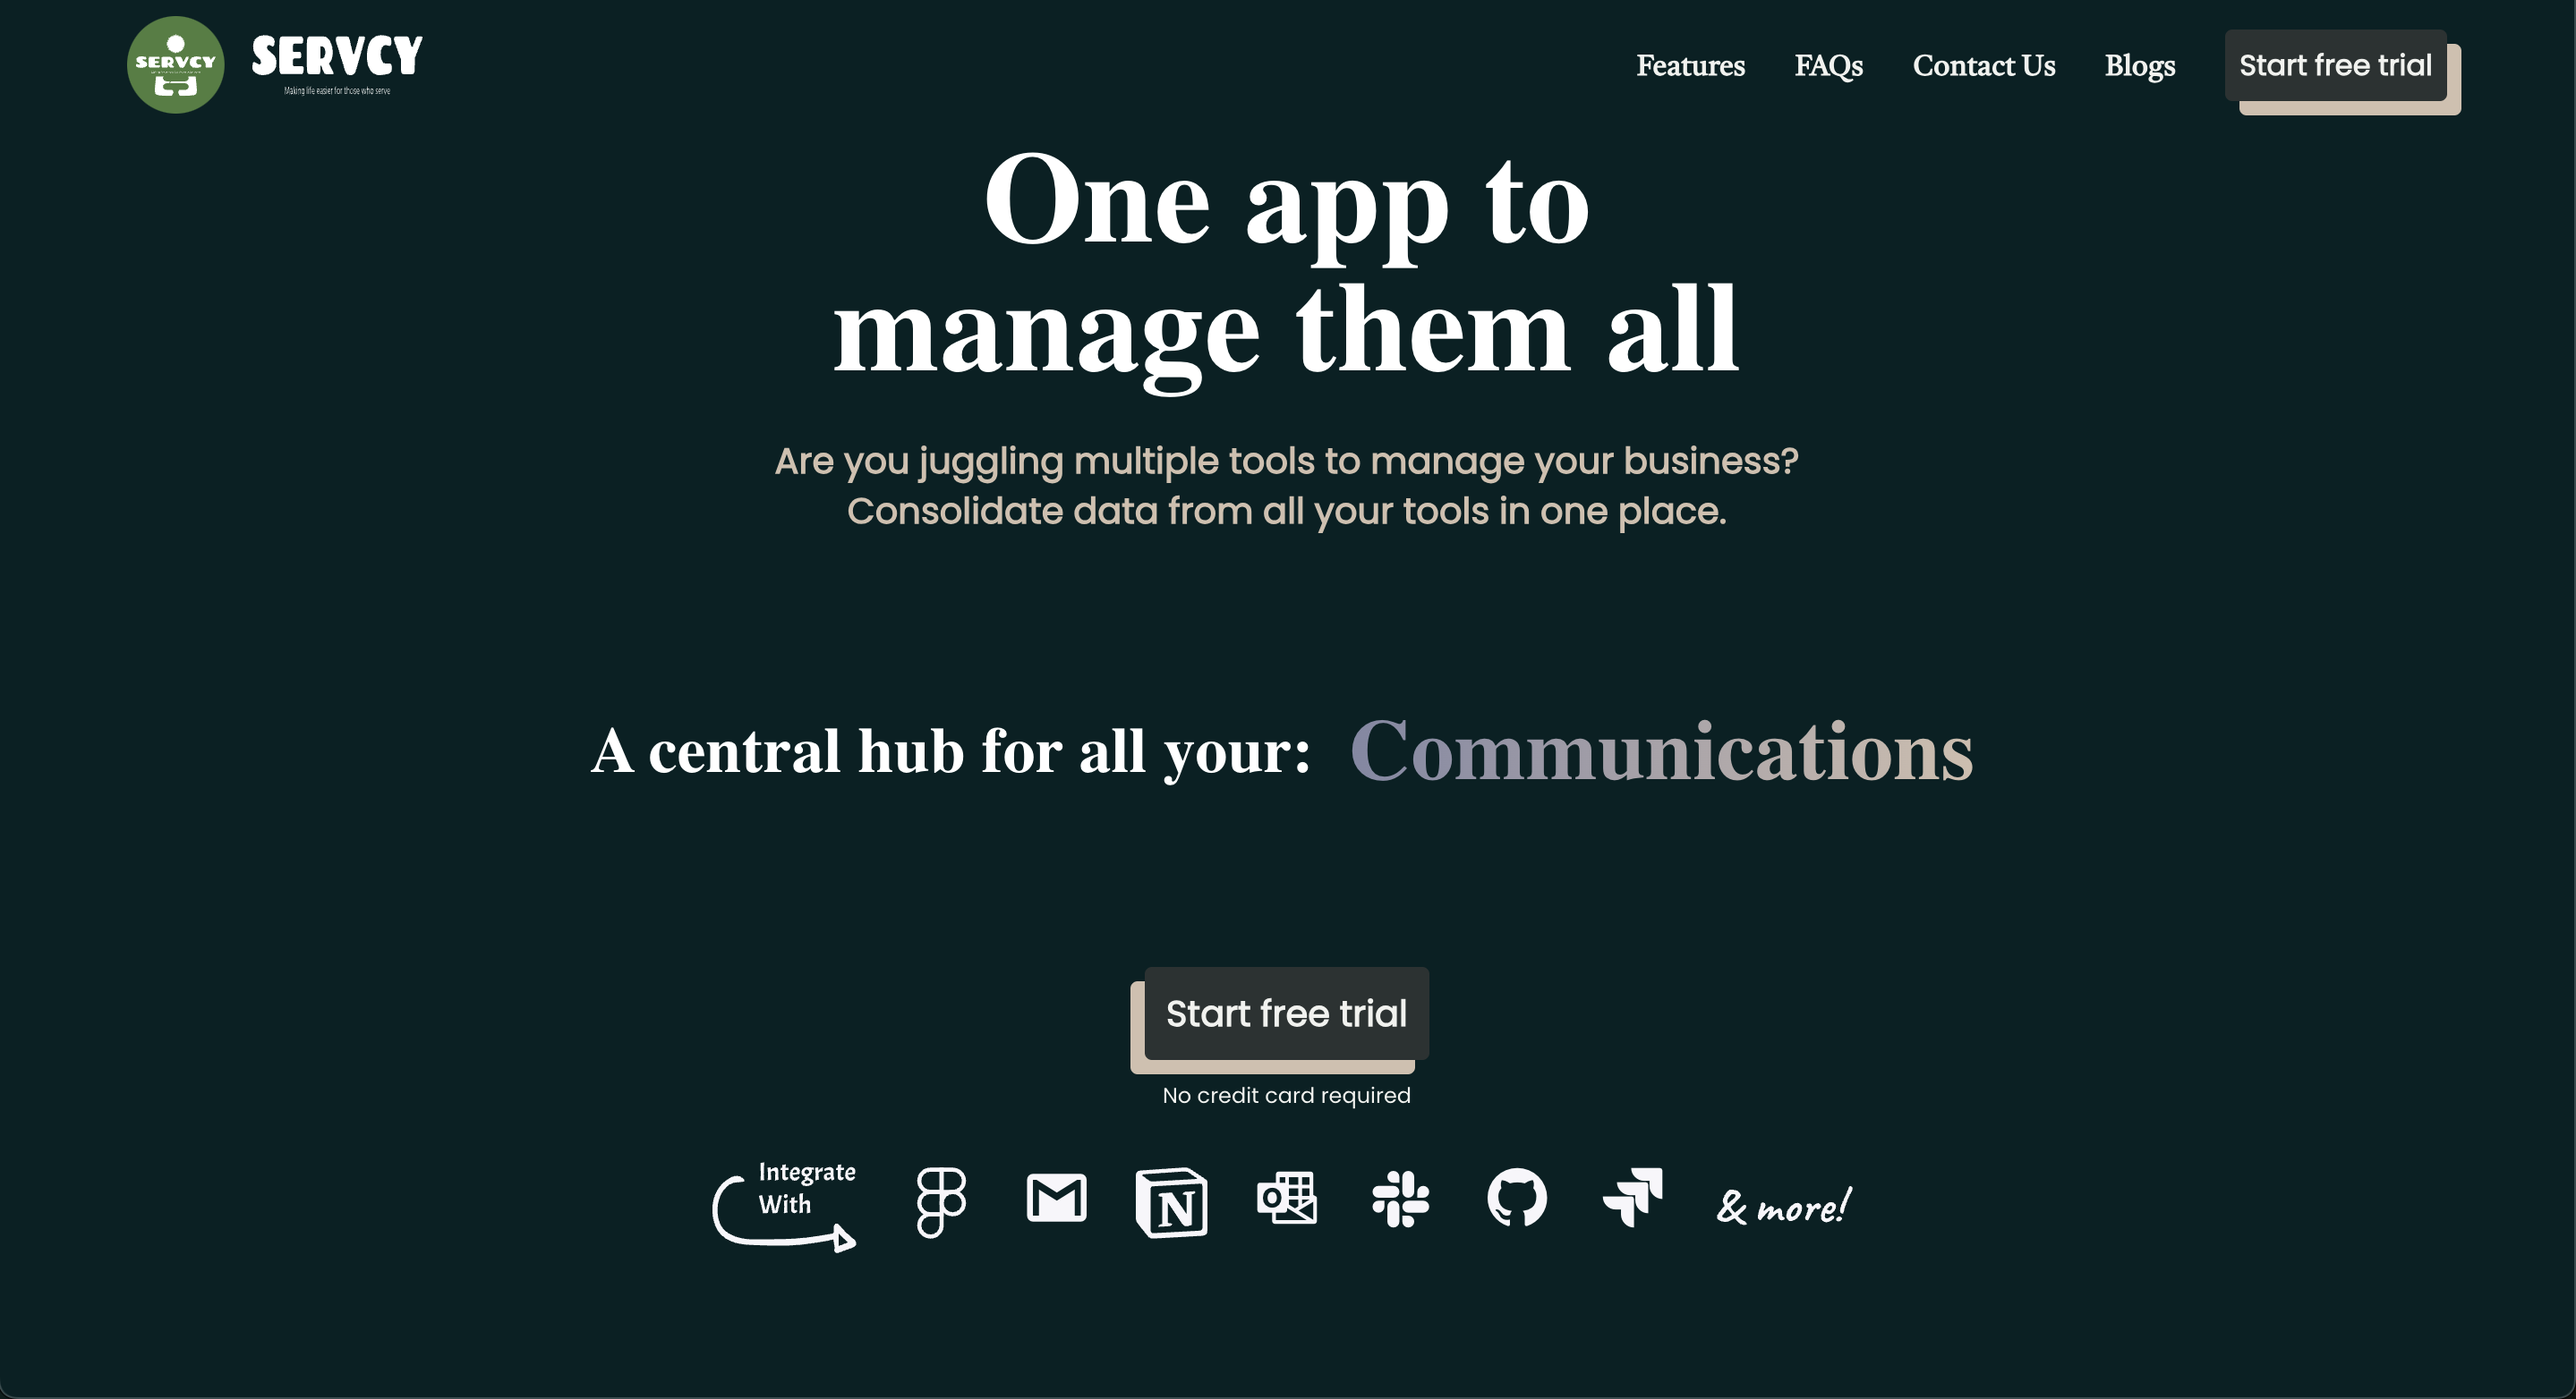
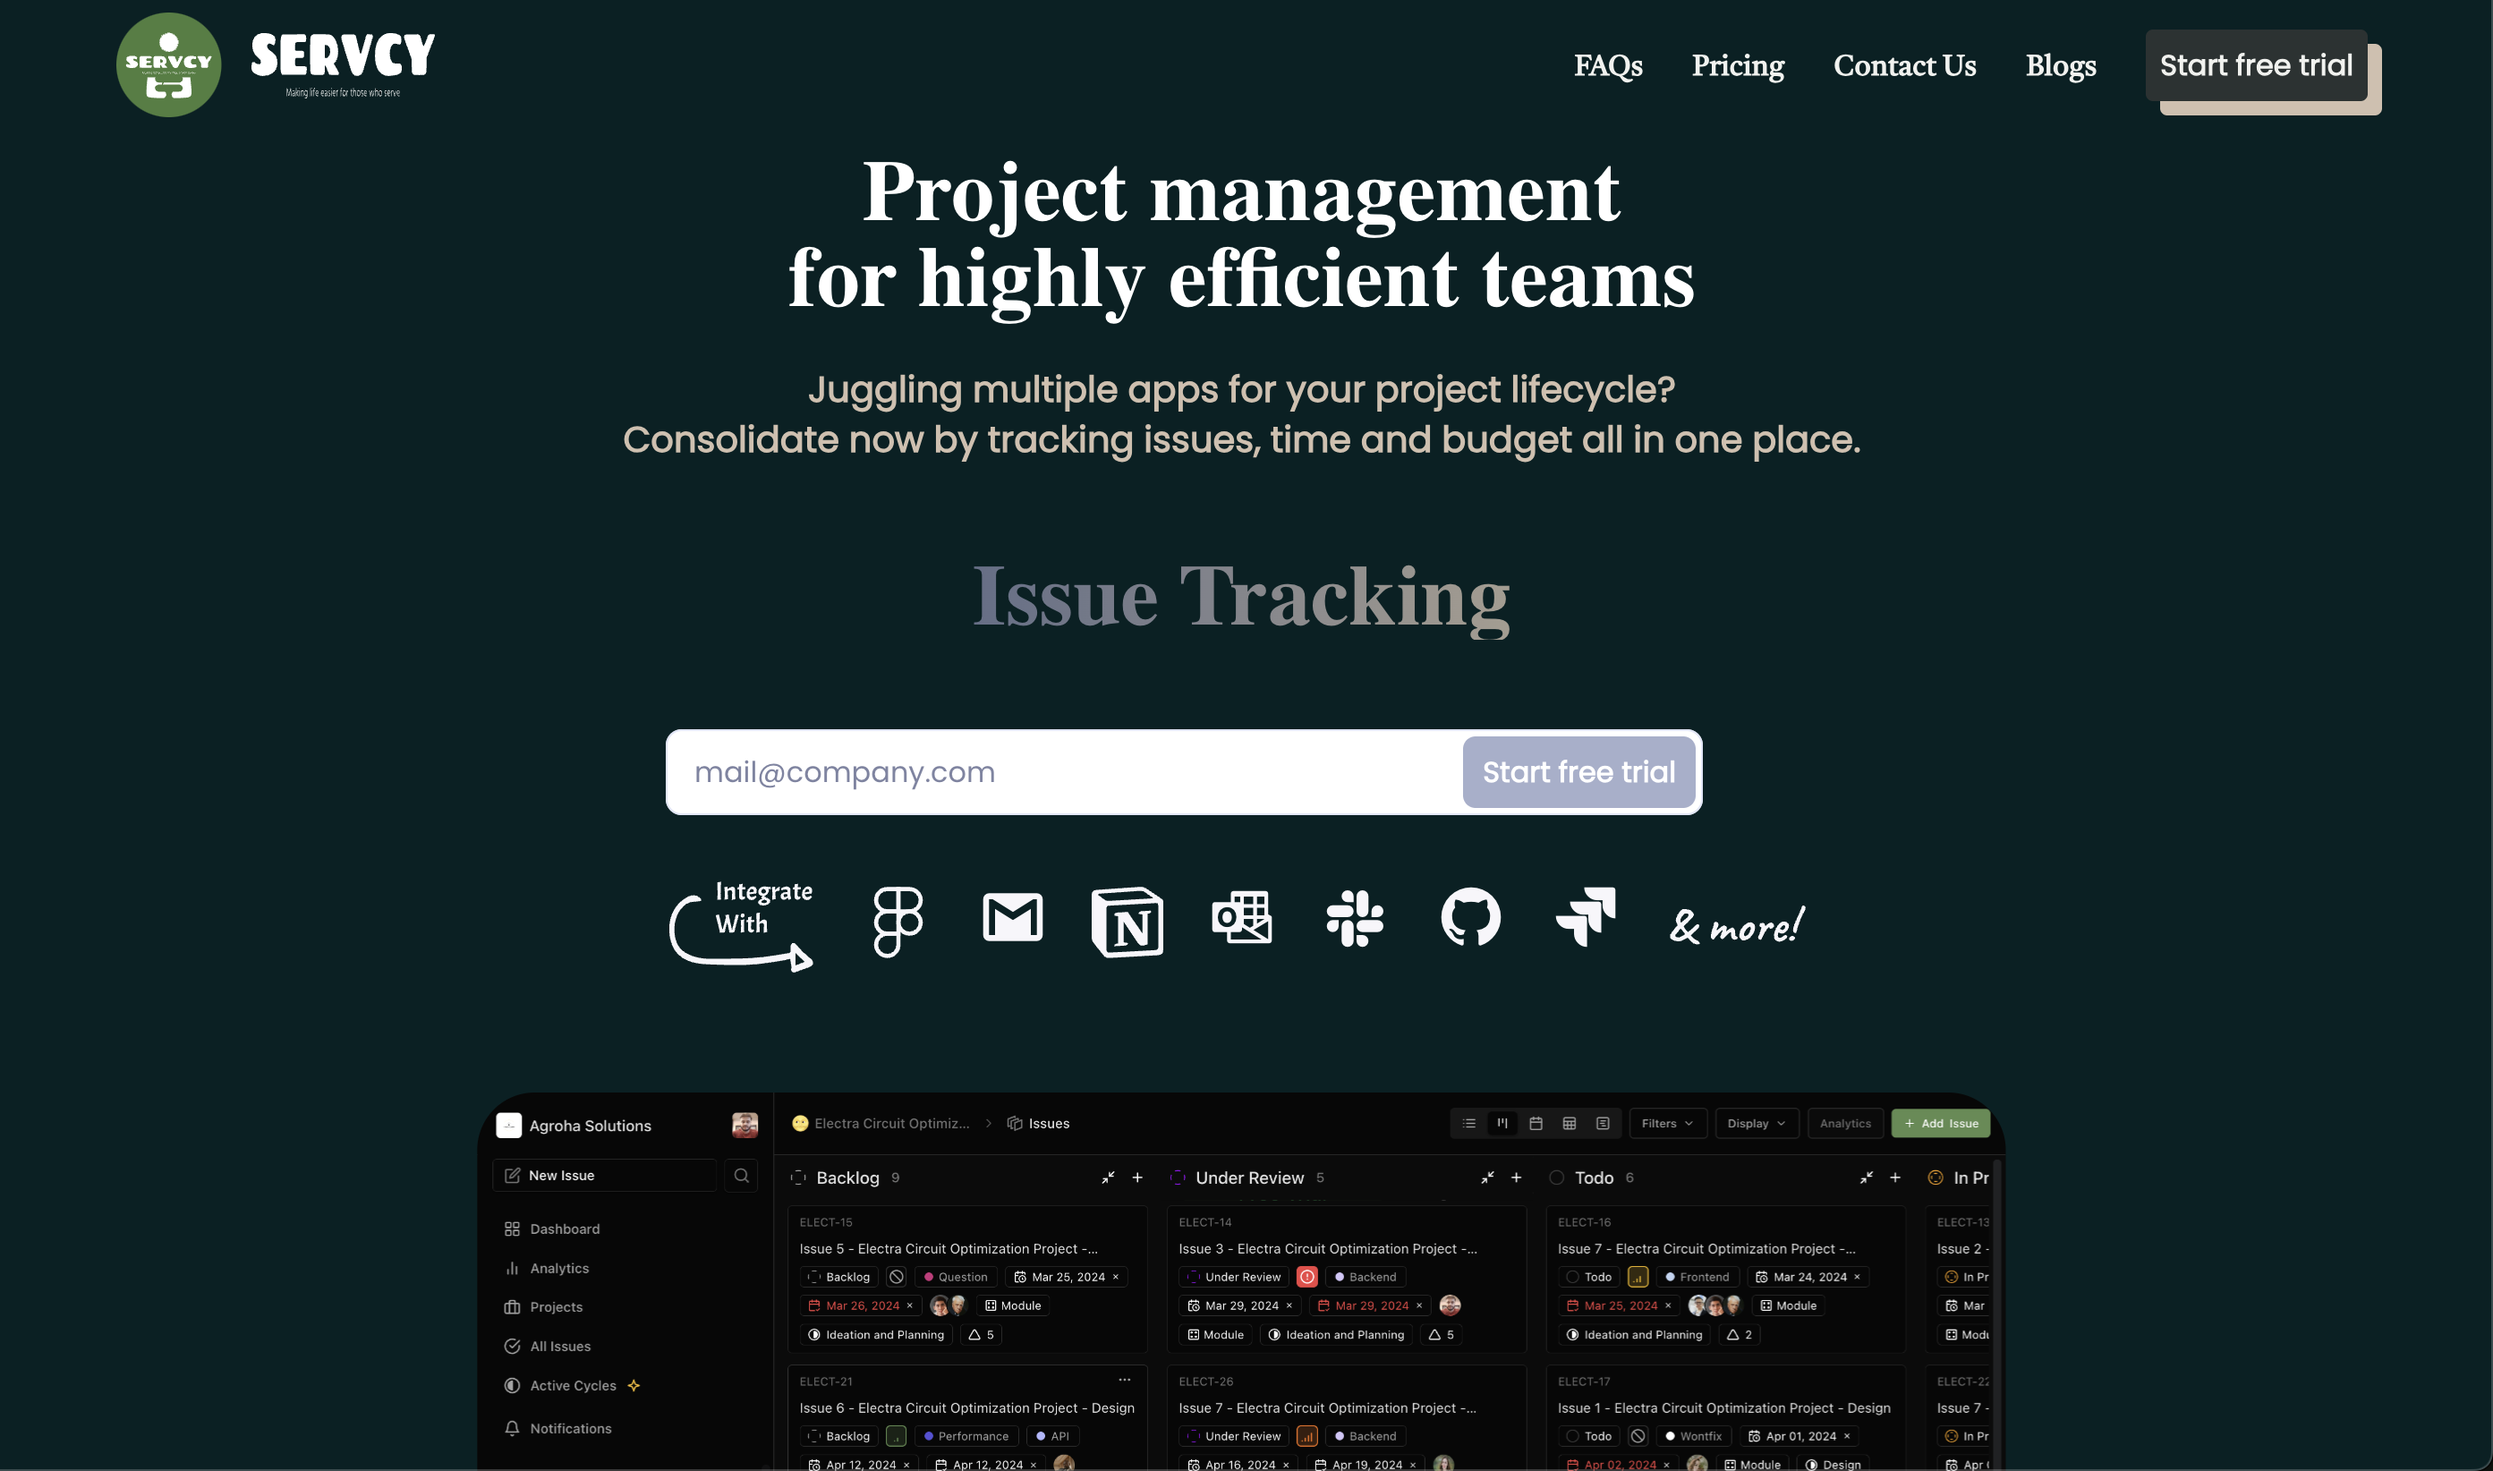
Update page titles and descriptions for improved clarity and consistency

diff --git a/nuxt.config.js b/nuxt.config.js
@@ -4,7 +4,7 @@ export default {
 
   // Global page headers: https://go.nuxtjs.dev/config-head
   head: {
-    titleTemplate: "%s - One app to manage them all",
+    titleTemplate: "%s - Built for high performance teams",
     title: "Servcy",
     htmlAttrs: {
       lang: "en",
@@ -16,7 +16,7 @@ export default {
         hid: "description",
         name: "description",
         content:
-          "Servcy is for Founders, CXOs, Freelancers and Software developers. We all use different softwares to manage our workday, but what if you could have control over all of them in one place? Servcy helps you see it, analyse it and do it all in one place.",
+          "Servcy is a project management suite for highly efficient teams. Consolidate now by tracking issues, time and budget all in one place.",
       },
       { property: "og:site_name", content: "Servcy" },
       { hid: "og:type", property: "og:type", content: "website" },
@@ -30,7 +30,7 @@ export default {
         hid: "og:description",
         property: "og:description",
         content:
-          "Servcy is for Founders, CXOs, Freelancers and Software developers. We all use different softwares to manage our workday, but what if you could have control over all of them in one place? Servcy helps you see it, analyse it and do it all in one place.",
+          "Servcy is a project management suite for highly efficient teams. Consolidate now by tracking issues, time and budget all in one place.",
       },
       {
         hid: "og:image",
